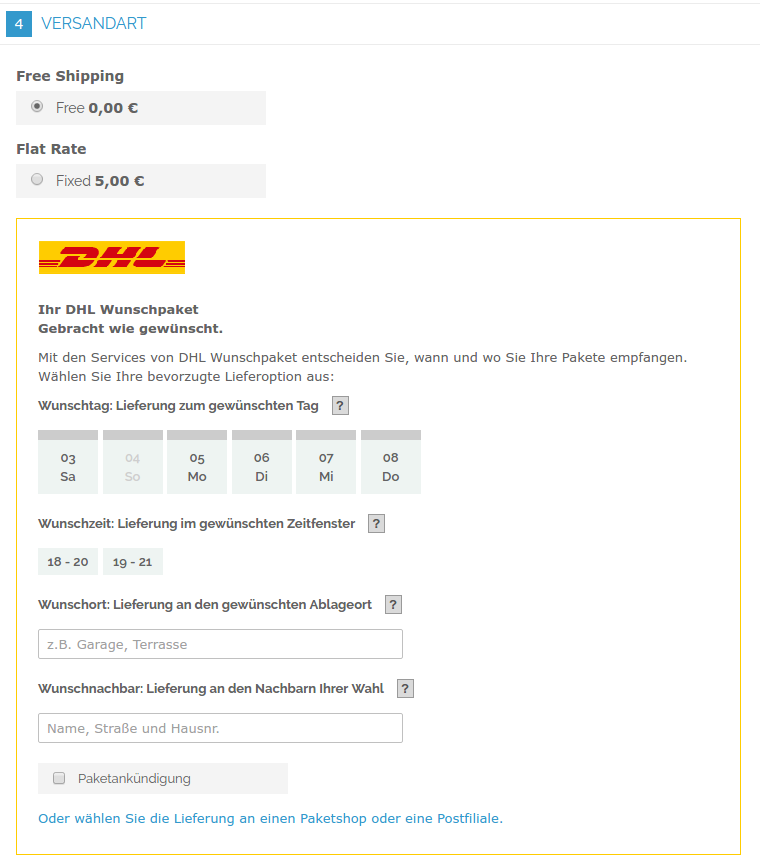
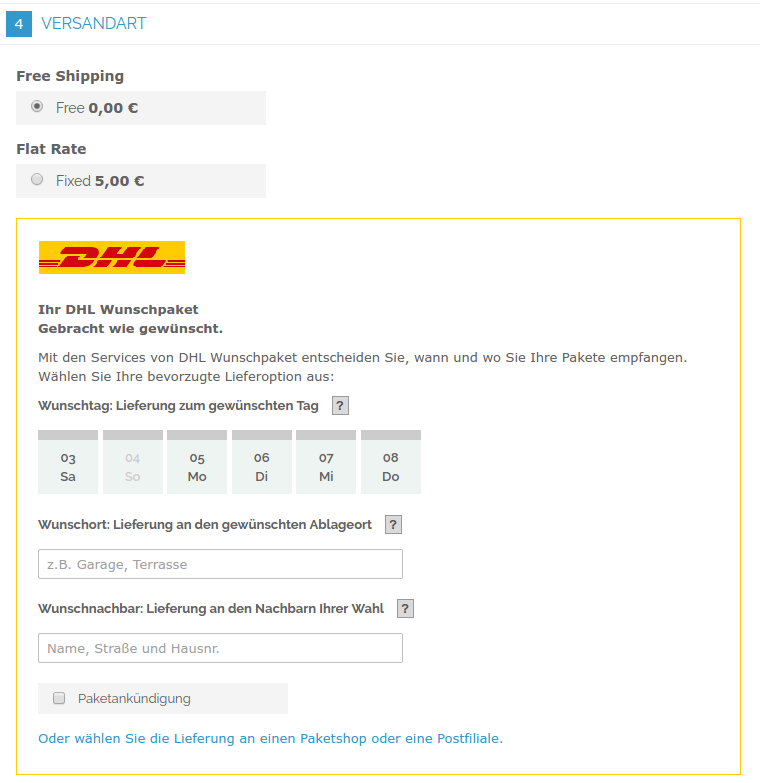
DHLGKP-279: remove pref time & add shipment defaults

diff --git a/doc/src/EndKundenDoku.rst b/doc/src/EndKundenDoku.rst
@@ -304,25 +304,14 @@ Beachten Sie bitte auch die Hinweise zur `Buchbarkeit von Zusatzservices`_ sowie
 * *Wunschtag*: Der Kunde wählt einen festgelegten Tag für seine Sendung,
   an welchem die Lieferung ankommen soll. Die verfügbaren Wunschtage werden dynamisch
   angezeigt, basierend auf der Empfängeradresse.
-* *Wunschzeit*: Der Kunde wählt ein Zeitfenster für seine Sendung,
-  in welchem die Lieferung ankommen soll. Die verfügbaren Wunschzeiten werden dynamisch
-  angezeigt, basierend auf der Empfängeradresse.
-* *Wunschtag / Wunschzeit Aufpreis (Serviceaufschlag)*: Dieser Betrag wird zu den Versandkosten
+
+* *Wunschtag Aufpreis (Serviceaufschlag)*: Dieser Betrag wird zu den Versandkosten
   hinzu addiert, wenn der Zusatzservice verwendet wird. Verwenden Sie Punkt statt Komma
   als Trennzeichen. Der Betrag muss in Brutto angegeben werden (einschl. Steuern).
   Wenn Sie die Zusatzkosten nicht an den Kunden weiterreichen wollen, tragen Sie hier
   ``0`` ein.
-* *Wunschtag / Wunschzeit Serviceaufschlag Hinweistext*: Dieser Text wird dem Kunden
+* *Wunschtag  Serviceaufschlag Hinweistext*: Dieser Text wird dem Kunden
   im Checkout angezeigt, wenn der Zusatzservice ausgewählt wird. Sie können den
-  Platzhalter ``$1`` im Text verwenden, welcher im Checkout durch den Zusatzbetrag
-  und die Währung ersetzt wird.
-* *Kombination Wunschtag und Wunschzeit Aufpreis (Serviceaufschlag)*: Dieser Betrag wird zu
-  den Versandkosten hinzu addiert, wenn **beide** Services gebucht werden. Verwenden Sie Punkt
-  statt Komma als Trennzeichen. Der Betrag muss in Brutto angegeben werden (einschl. Steuern).
-  Wenn Sie die Zusatzkosten nicht an den Kunden weiterreichen wollen, tragen Sie hier
-  ``0`` ein.
-* *Kombination Wunschtag und Wunschzeit Serviceaufschlag Hinweistext*: Dieser Text wird dem Kunden
-  im Checkout angezeigt, wenn **beide** Zusatzservices ausgewählt sind. Sie können den
   Platzhalter ``$1`` im Text verwenden, welcher im Checkout durch den Zusatzbetrag
   und die Währung ersetzt wird.
 * *Annahmeschluss*: Legt den Zeitpunkt fest, bis zu dem eingegangene Bestellungen
@@ -353,7 +342,10 @@ Die Einstellung *Bestell-Status* legt fest, welchen Status eine Bestellung haben
 um durch die automatische Sendungserstellung berücksichtigt zu werden. Hierüber können Sie
 steuern, welche Bestellungen von der automatischen Verarbeitung ausgeschlossen werden sollen.
 
-Außerdem legen Sie hier die *Zusatzservices* fest, die automatisch hinzugebucht werden sollen.
+Standardwerte für Sendungen
+~~~~~~~~~~~~~~~~~~~~~~~~~~~
+
+Hier legen Sie die *Zusatzservices* fest, die automatisch hinzugebucht werden sollen.
 
 Kontaktinformationen
 ~~~~~~~~~~~~~~~~~~~~
@@ -384,7 +376,7 @@ auf das Retoure-Label gedruckt werden soll, wenn dieser Service gebucht wird.
 Buchbarkeit von Zusatzservices
 ------------------------------
 
-Die tatsächlich buchbaren Services sowie die wählbaren Wunschtage und Wunschzeiten hängen
+Die tatsächlich buchbaren Services sowie die wählbaren Wunschtage hängen
 von der Lieferadresse bzw. dem Zielland ab. Dazu wird die DHL Paketsteuerung API während
 des Checkouts verwendet. Nicht verfügbare Services werden im Checkout
 automatisch ausgeblendet.
@@ -397,8 +389,8 @@ Die gleichzeitige Buchung von Wunschort und Wunschnachbar ist nicht möglich.
 Zusatzkosten für Services
 -------------------------
 
-Die Services *Wunschtag* und *Wunschzeit* sind **standardmäßig aktiviert!** Wenn diese
-gebucht werden, werden die konfigurierten Service-Aufschläge zu den Versandkosten hinzugefügt.
+Der Service *Wunschtag* ist **standardmäßig aktiviert!** Wird dieser gebucht, wird
+der konfigurierte Service-Aufschlag zu den Versandkosten hinzugefügt.
 
 Bei Nutzung der Versandart *Free Shipping / Versandkostenfrei* werden die eingestellten
 Zusatzkosten generell außer Kraft gesetzt!

diff --git a/doc/src/EndUserDoc.rst b/doc/src/EndUserDoc.rst
@@ -294,22 +294,12 @@ Please also note the information about `Booking additional services`_ and
 * *Enable Preferred Day*: The customer chooses a specific day on which the shipment
   should arrive. The available days are displayed dynamically, depending on the recipient's
   address.
-* *Enable Preferred Time*: The customer chooses a time frame within which the
-  shipment should arrive. The available times are displayed dynamically, depending on the recipient's
-  address.
-* *Preferred day / time handling additional charge (handling fee)*: This amount will
+* *Preferred day handling additional charge (handling fee)*: This amount will
   be added to the shipping cost if the service is used. Use a decimal point, not comma.
   The gross amount must be entered here (incl. VAT). If you want to offer the service
   for free, enter a ``0`` here.
-* *Preferred day / time handling fee text*: This text will be displayed to the customer
+* *Preferred day handling fee text*: This text will be displayed to the customer
   in the checkout if the service has been selected. You can use the placeholder ``$1``
-  in the text which will show the additional handling fee and currency in the checkout.
-* *Combined preferred day and time handling additional charge (handling fee)*: This amount will
-  be added to the shipping cost if **both** services are booked. Use a decimal point, not comma.
-  The gross amount must be entered here (incl. VAT). If you want to offer the services combination
-  for free, enter a ``0`` here.
-* *Combined preferred day and time handling fee text*: This text will be displayed to the customer
-  in the checkout if both services have been selected. You can use the placeholder ``$1``
   in the text which will show the additional handling fee and currency in the checkout.
 * *Cut off time*: This sets the time up to which new orders will be dispatched on the
   same day. Orders placed *after* the cut off time will not be dispatched on the same
@@ -338,7 +328,9 @@ You can also configure which *order status* an order must have to be processed
 automatically. You can use this to exclude specific orders from being processed
 automatically.
 
-Also, the *additional services* which should be booked automatically can be chosen here.
+Shipment Defaults
+~~~~~~~~~~~~~~~~~
+The *additional services* which should be booked automatically can be chosen here.
 
 Contact Data
 ~~~~~~~~~~~~
@@ -371,7 +363,7 @@ on the Return Label, if that service was booked.
 Booking additional services
 ---------------------------
 
-The available services as well as preferred days and preferred times depend on the
+The available services as well as preferred days depend on the
 actual shipping address and country. The DHL Parcel Management API is used for this
 during the checkout process. Unusable services will be hidden in the checkout
 automatically.
@@ -384,8 +376,8 @@ The services *Preferred location* and *Preferred neighbor* cannot be booked toge
 Additional costs for services
 -----------------------------
 
-The services *Preferred Day* and *Preferred Time* are **enabled by default!**
-Therefore the standard DHL handling fees will be added to the shipping cost.
+The service *Preferred Day* is **enabled by default!**
+Therefore the standard DHL handling fee will be added to the shipping cost.
 
 When using the shipping method *Free Shipping* the additional handling fees will
 always be ignored!
